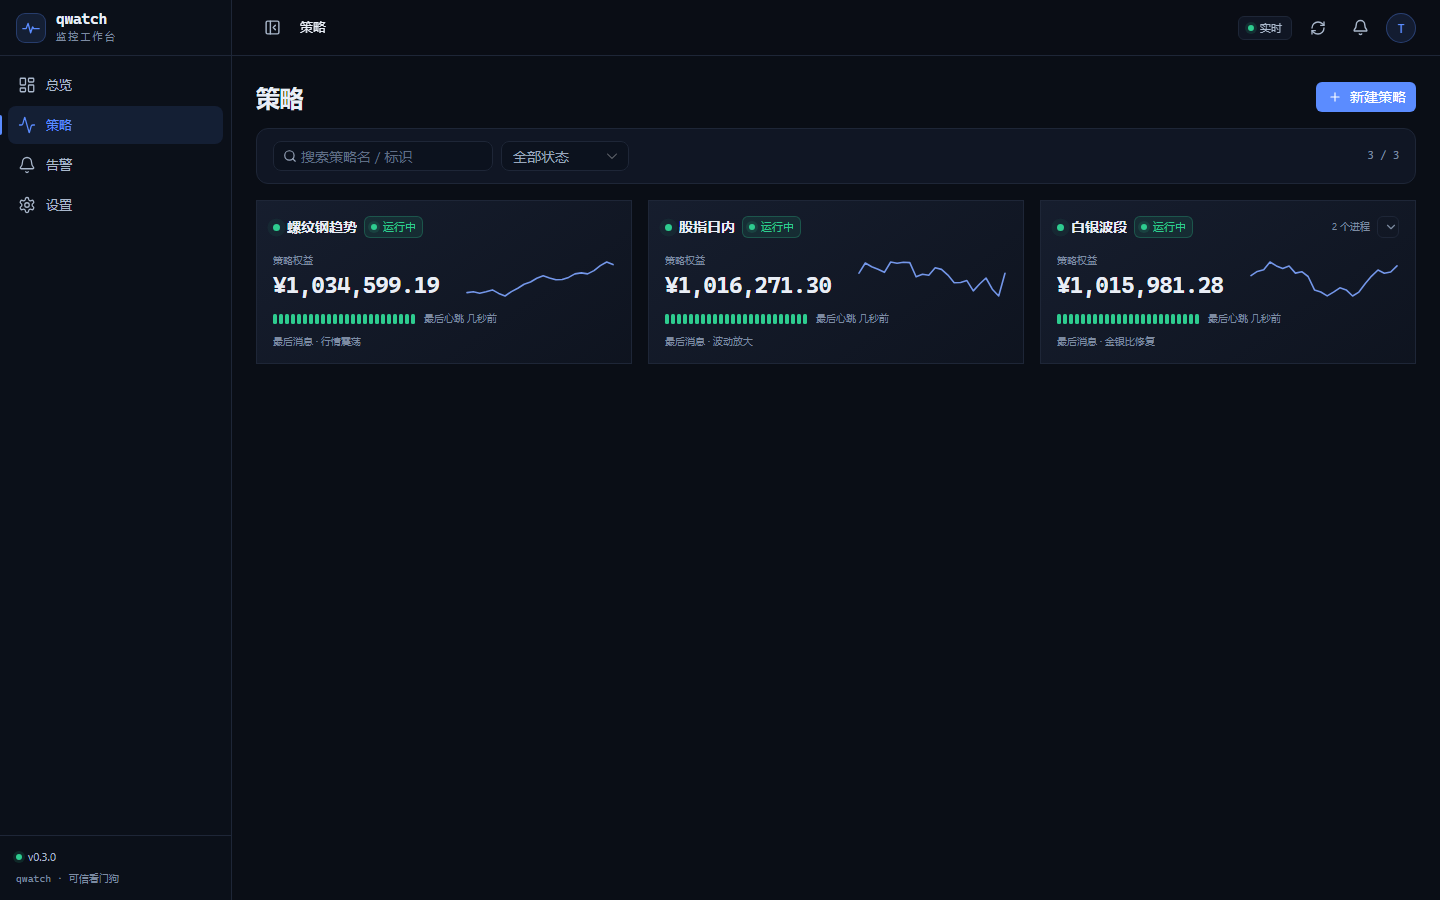
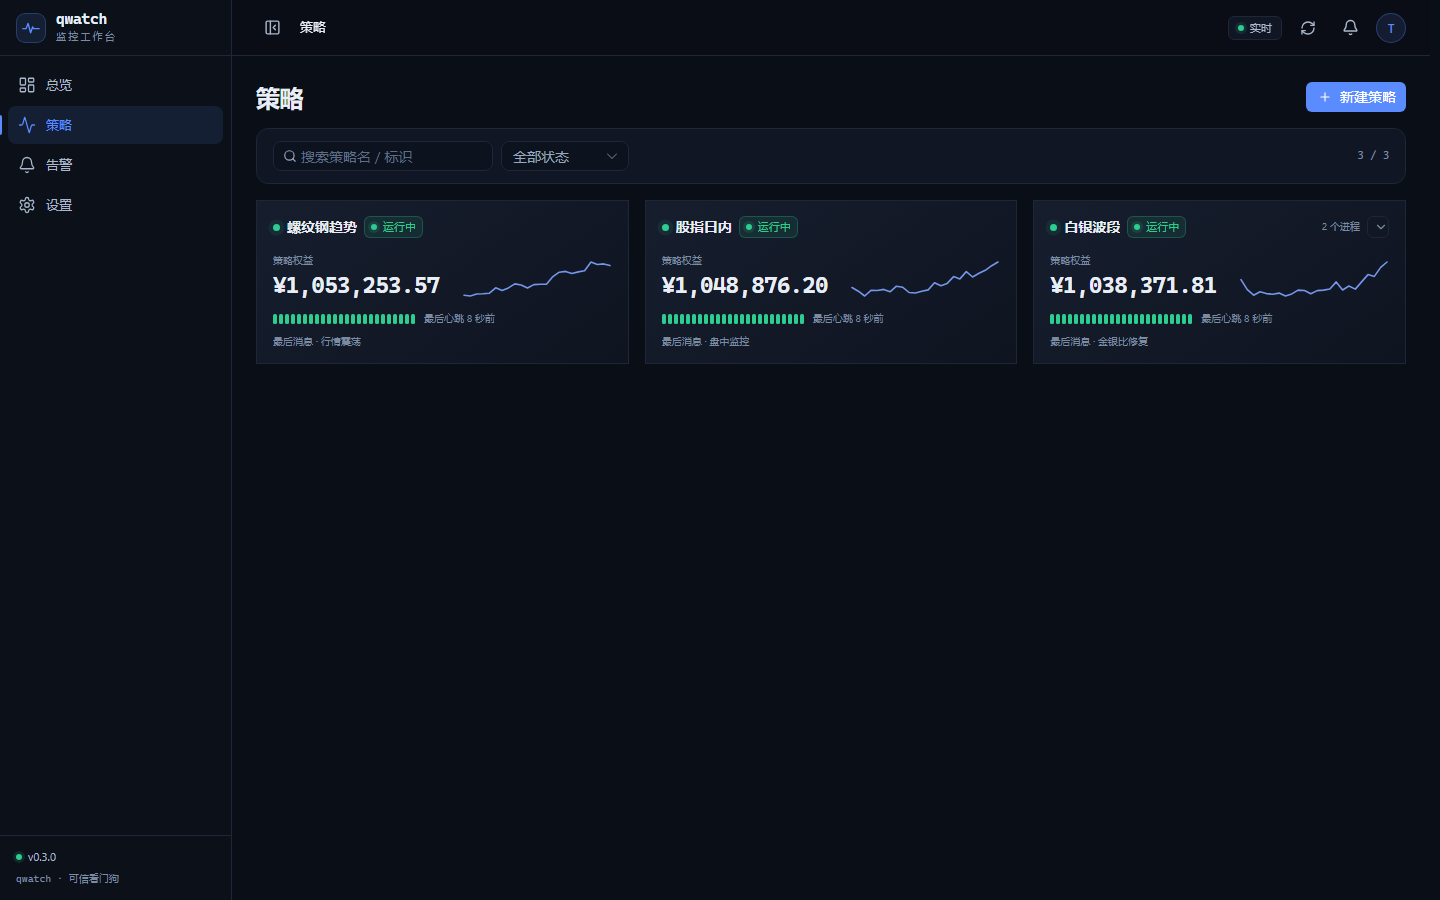
fix: polish dashboard alignment, live timers and card interactions

diff --git a/frontend/src/views/Overview.vue b/frontend/src/views/Overview.vue
@@ -2,7 +2,7 @@
 // Overview.vue — v0.3 总览：总权益/权益曲线 + 策略状态（可展开进程、异常可见）+ 实时动态/告警。
 import { computed, onBeforeUnmount, onMounted, ref, watch } from 'vue';
 import { useRouter } from 'vue-router';
-import { Bell, ChevronDown, ChevronRight, TrendingUp, Wallet, Waves } from 'lucide-vue-next';
+import { Bell, ChevronRight, TrendingUp, Wallet, Waves } from 'lucide-vue-next';
 import { api } from '@/api/client';
 import type { Overview, Runner, RunnerDetail, RunnerEvent } from '@/api/types';
 import { useRealtimeStore } from '@/stores/realtime';
@@ -29,9 +29,6 @@ const selectedStrategy = ref('all');
 const range = ref<'1D' | '1W' | '1M' | '3M' | 'ALL'>('1D');
 const selectedDetail = ref<RunnerDetail | null>(null);
 const selectedLoading = ref(false);
-const expandedId = ref('');
-const expandedDetail = ref<RunnerDetail | null>(null);
-const expandedLoading = ref(false);
 let pollTimer: number | undefined;
 let reloadTimer: number | undefined;
 
@@ -100,10 +97,6 @@ async function load(initial = false): Promise<void> {
       if (!data.value.runners.some((runner) => runner.id === selectedStrategy.value)) selectedStrategy.value = 'all';
       else await loadSelected(selectedStrategy.value);
     }
-    if (expandedId.value) {
-      if (!data.value.runners.some((runner) => runner.id === expandedId.value)) closeExpanded();
-      else await loadExpanded(expandedId.value);
-    }
   } catch (err) {
     error.value = err instanceof Error ? err.message : '总览加载失败';
   } finally {
@@ -120,23 +113,6 @@ async function loadSelected(id: string): Promise<void> {
 function selectStrategy(id: string): void {
   selectedStrategy.value = id;
   void loadSelected(id);
-}
-async function loadExpanded(id: string): Promise<void> {
-  expandedLoading.value = true;
-  try { expandedDetail.value = await api.runner(id); }
-  catch { expandedDetail.value = null; }
-  finally { expandedLoading.value = false; }
-}
-async function toggleRunner(runner: Runner): Promise<void> {
-  if (runner.process_count <= 1) { void router.push('/strategies/' + runner.id); return; }
-  if (expandedId.value === runner.id) { closeExpanded(); return; }
-  expandedId.value = runner.id;
-  expandedDetail.value = null;
-  await loadExpanded(runner.id);
-}
-function closeExpanded(): void {
-  expandedId.value = '';
-  expandedDetail.value = null;
 }
 function openEvent(event: RunnerEvent): void {
   if (event.runner_id) void router.push('/strategies/' + event.runner_id + '?tab=events');
@@ -160,8 +136,18 @@ onBeforeUnmount(() => {
   <div class="page">
     <PageHeader title="总览" />
 
-    <div v-if="loading && !data" class="summary-grid">
-      <div v-for="i in 4" :key="i" class="skel skel-card" style="height: 96px" />
+    <div v-if="loading && !data" class="skeleton-page">
+      <div class="summary-grid">
+        <div v-for="i in 4" :key="i" class="skel skel-card" style="height: 104px" />
+      </div>
+      <div class="overview-main">
+        <div class="skel skel-card" style="height: 390px; border-radius: var(--radius-lg)" />
+        <div class="skel skel-card" style="height: 390px; border-radius: var(--radius-lg)" />
+      </div>
+      <div class="grid grid-2">
+        <div class="skel skel-card" style="height: 260px; border-radius: var(--radius-lg)" />
+        <div class="skel skel-card" style="height: 260px; border-radius: var(--radius-lg)" />
+      </div>
     </div>
     <div v-else-if="error && !data" class="card"><EmptyState title="总览加载失败" :description="error" /></div>
 
@@ -195,50 +181,37 @@ onBeforeUnmount(() => {
 
       <div class="overview-main">
         <SectionCard title="权益曲线">
-          <div class="chart-toolbar">
-            <select :value="selectedStrategy" class="chart-select" aria-label="选择策略" @change="selectStrategy(($event.target as HTMLSelectElement).value)">
-              <option v-for="option in strategyOptions" :key="option.id" :value="option.id">{{ option.name }}</option>
-            </select>
-            <div class="range-tabs">
-              <button v-for="item in ranges" :key="item.key" type="button" :class="{ active: range === item.key }" @click="range = item.key">{{ item.label }}</button>
+          <template #extra>
+            <div class="chart-tools">
+              <select :value="selectedStrategy" class="chart-select" aria-label="选择策略" @change="selectStrategy(($event.target as HTMLSelectElement).value)">
+                <option v-for="option in strategyOptions" :key="option.id" :value="option.id">{{ option.name }}</option>
+              </select>
+              <div class="range-tabs">
+                <button v-for="item in ranges" :key="item.key" type="button" :class="{ active: range === item.key }" @click="range = item.key">{{ item.label }}</button>
+              </div>
             </div>
-          </div>
+          </template>
           <div class="chart-wrap" :class="{ dimmed: selectedLoading }"><NavChart :data="equityCurve" :height="292" /></div>
         </SectionCard>
 
         <SectionCard title="策略状态">
           <template #extra><router-link to="/strategies" class="link-more">全部策略 <ChevronRight :size="13" /></router-link></template>
           <div v-if="data.runners.length" class="status-list">
-            <div v-for="runner in data.runners" :key="runner.id" class="status-block" :class="{ expanded: expandedId === runner.id }">
-              <div class="status-row" role="button" tabindex="0" @click="toggleRunner(runner)" @keydown.enter="toggleRunner(runner)">
-                <div class="status-row-top">
-                  <span class="status-name"><StatusDot :status="runner.status" :size="7" /><span class="truncate">{{ runner.name }}</span><StatusTag :status="runner.status" compact /></span>
-                  <span class="status-right">
-                    <span v-if="issueCount(runner) && runner.status !== 'paused'" class="issue">{{ issueCount(runner) }} 个进程异常</span>
-                    <span v-else-if="runner.process_count > 1" class="proc-count">{{ runner.process_count }} 个进程</span>
-                    <ChevronDown v-if="runner.process_count > 1" :size="13" class="chevron" :class="{ open: expandedId === runner.id }" />
-                  </span>
-                </div>
-                <div class="status-row-mid">
-                  <HeartbeatGrid :status="runner.status" :last-seen="runner.last_seen" />
-                  <span class="equity mono">{{ runner.equity ? '¥' + fmtNumber(runner.equity, 2) : '—' }}</span>
-                  <span class="last-seen">{{ runner.last_seen ? fromNow(runner.last_seen) : '从未上报' }}</span>
-                </div>
-                <p class="status-msg truncate">{{ runner.last_msg || runner.description || '暂无消息' }}</p>
+            <router-link v-for="runner in data.runners" :key="runner.id" :to="'/strategies/' + runner.id" class="status-row">
+              <div class="status-row-top">
+                <span class="status-name"><StatusDot :status="runner.status" :size="7" /><span class="truncate">{{ runner.name }}</span><StatusTag :status="runner.status" compact /></span>
+                <span class="status-right">
+                  <span v-if="issueCount(runner) && runner.status !== 'paused'" class="issue">{{ issueCount(runner) }} 个进程异常</span>
+                  <span v-else-if="runner.process_count > 1" class="proc-count">{{ runner.process_count }} 个进程</span>
+                </span>
               </div>
-              <div v-if="expandedId === runner.id" class="process-pop">
-                <div v-if="expandedLoading" class="pop-loading">加载进程…</div>
-                <template v-else-if="expandedDetail">
-                  <div v-for="process in expandedDetail.processes" :key="process.name" class="process-line">
-                    <span class="process-name mono">{{ process.name }}</span>
-                    <StatusTag :status="process.retired ? 'retired' : process.status" compact />
-                    <HeartbeatGrid :status="process.status" :retired="process.retired" :last-seen="process.last_seen" />
-                    <span class="process-time">{{ process.last_seen ? fromNow(process.last_seen) : '从未上报' }}</span>
-                  </div>
-                  <router-link :to="'/strategies/' + runner.id" class="pop-detail">查看策略详情 <ChevronRight :size="12" /></router-link>
-                </template>
+              <div class="status-row-mid">
+                <HeartbeatGrid :status="runner.status" :last-seen="runner.last_seen" />
+                <span class="row-equity mono">{{ runner.equity ? '¥' + fmtNumber(runner.equity, 2) : '—' }}</span>
+                <span class="last-seen">{{ runner.last_seen ? fromNow(runner.last_seen) : '从未上报' }}</span>
               </div>
-            </div>
+              <p class="status-msg truncate">{{ runner.last_msg || runner.description || '暂无消息' }}</p>
+            </router-link>
           </div>
           <EmptyState v-else compact title="还没有策略组" description="前往「策略」页创建策略并生成接入令牌。" />
         </SectionCard>
@@ -267,19 +240,19 @@ onBeforeUnmount(() => {
 
 <style scoped>
 .summary-grid { display: grid; grid-template-columns: repeat(4, minmax(0, 1fr)); gap: var(--gap); }
-.ov-kpi { display: flex; flex-direction: column; min-height: 104px; padding: 14px 16px; border: 1px solid var(--border); border-radius: var(--radius-lg); background: linear-gradient(145deg, rgba(29, 38, 58, 0.7), rgba(17, 23, 36, 0.7)); color: inherit; }
-.ov-kpi-top { display: flex; align-items: center; justify-content: space-between; color: var(--text-3); font-size: 11px; }
-.ov-kpi-value { margin-top: 10px; font-family: var(--font-mono); font-size: 26px; font-weight: 600; letter-spacing: -0.04em; color: var(--text); white-space: nowrap; }
+.ov-kpi { display: flex; flex-direction: column; align-items: flex-start; min-height: 104px; padding: 14px 16px; border: 1px solid var(--border); border-radius: var(--radius-lg); background: linear-gradient(145deg, rgba(29, 38, 58, 0.7), rgba(17, 23, 36, 0.7)); color: inherit; }
+.ov-kpi-top { width: 100%; display: flex; align-items: center; justify-content: space-between; color: #ffffff; font-size: 11px; }
+.ov-kpi-value { width: 100%; margin-top: 10px; font-family: var(--font-mono); font-size: 26px; font-weight: 600; letter-spacing: -0.04em; color: #ffffff; text-align: left; white-space: nowrap; }
 .ov-kpi-value.equity { font-size: 23px; }
 .ov-kpi-value.up { color: var(--up); }
 .ov-kpi-value.down { color: var(--down); }
 .ov-kpi-value.danger, .danger { color: var(--danger); }
 .ov-kpi-value .dim { color: var(--text-3); font-size: 16px; font-weight: 400; }
 .ov-kpi-value .unit { color: var(--text-3); font-size: 13px; font-weight: 400; }
-.ov-kpi-foot { margin-top: auto; padding-top: 6px; color: var(--text-3); font-size: 10px; }
+.ov-kpi-foot { margin-top: auto; padding-top: 6px; color: #cbd5e5; font-size: 10px; }
 .ov-kpi.link:hover { border-color: var(--border-strong); }
 .overview-main { display: grid; grid-template-columns: minmax(0, 1.7fr) minmax(320px, 1fr); gap: var(--gap); align-items: start; }
-.chart-toolbar { display: flex; align-items: center; justify-content: space-between; gap: 10px; margin-bottom: 8px; }
+.chart-tools { display: flex; align-items: center; gap: 8px; }
 .chart-select { height: 27px; min-width: 132px; padding: 0 24px 0 9px; border: 1px solid var(--border); border-radius: 6px; background: var(--bg); color: var(--text-2); font-size: 11px; outline: none; cursor: pointer; }
 .range-tabs { display: inline-flex; padding: 2px; border: 1px solid var(--border); border-radius: 6px; background: var(--bg); }
 .range-tabs button { height: 23px; padding: 0 8px; border: 0; border-radius: 4px; background: transparent; color: var(--text-3); font-size: 10px; cursor: pointer; }
@@ -287,29 +260,26 @@ onBeforeUnmount(() => {
 .chart-wrap { transition: opacity 160ms ease; }
 .chart-wrap.dimmed { opacity: 0.55; }
 .status-list { display: flex; flex-direction: column; gap: 8px; }
-.status-block { border: 1px solid var(--border); border-radius: 9px; background: rgba(21, 28, 44, 0.45); overflow: hidden; }
-.status-block.expanded { border-color: rgba(91, 140, 255, 0.34); }
-.status-row { padding: 11px 12px; cursor: pointer; transition: background-color 150ms ease; }
-.status-row:hover { background: rgba(91, 140, 255, 0.055); }
+.status-row {
+  display: block;
+  padding: 11px 12px;
+  border: 1px solid var(--border);
+  border-radius: 9px;
+  background: rgba(21, 28, 44, 0.45);
+  color: inherit;
+  transition: border-color 150ms ease, background-color 150ms ease;
+}
+.status-row:hover { border-color: var(--border-strong); background: rgba(91, 140, 255, 0.055); }
 .status-row-top, .status-row-mid { display: flex; align-items: center; gap: 8px; }
 .status-row-top { justify-content: space-between; }
-.status-name { display: inline-flex; align-items: center; gap: 7px; min-width: 0; font-size: 13px; font-weight: 600; }
+.status-name { display: inline-flex; align-items: center; gap: 7px; min-width: 0; font-size: 13px; font-weight: 600; color: #ffffff; }
 .status-right { display: inline-flex; align-items: center; gap: 7px; }
 .issue { color: #f5b64b; font-size: 10px; }
 .proc-count { color: var(--text-3); font-size: 10px; }
-.chevron { color: var(--text-3); transition: transform 160ms ease; }
-.chevron.open { transform: rotate(180deg); }
 .status-row-mid { margin-top: 9px; }
-.equity { margin-left: auto; font-size: 12px; color: var(--text-2); }
+.row-equity { margin-left: auto; font-size: 12px; color: var(--text-2); }
 .last-seen { font-size: 10px; color: var(--text-3); }
 .status-msg { margin-top: 6px; font-size: 10px; color: var(--text-3); }
-.process-pop { padding: 0 12px 11px; border-top: 1px solid var(--border); }
-.pop-loading { padding: 10px 0; color: var(--text-3); font-size: 10px; }
-.process-line { display: flex; align-items: center; gap: 9px; padding: 8px 0; border-bottom: 1px solid var(--border); font-size: 11px; }
-.process-line:last-of-type { border-bottom: 0; }
-.process-name { width: 52px; color: var(--text); }
-.process-time { margin-left: auto; color: var(--text-3); font-size: 10px; }
-.pop-detail { display: inline-flex; align-items: center; gap: 2px; margin-top: 7px; color: var(--primary); font-size: 10px; }
 .live-hint { display: inline-flex; align-items: center; gap: 5px; color: var(--text-3); font-size: 10px; }
 .live-hint.live { color: var(--down); }
 .alert-feed { display: flex; flex-direction: column; }
@@ -328,8 +298,9 @@ onBeforeUnmount(() => {
   .ov-kpi { min-height: 92px; padding: 11px 12px; }
   .ov-kpi-value { font-size: 20px; }
   .ov-kpi-value.equity { font-size: 18px; }
-  .chart-toolbar { align-items: flex-start; flex-direction: column; }
-  .range-tabs { align-self: flex-end; }
+  .chart-tools { align-items: flex-start; flex-direction: column; }
+  .chart-select { width: 100%; }
+  .range-tabs { align-self: stretch; justify-content: space-between; }
   .last-seen { display: none; }
 }
 </style>

diff --git a/frontend/src/components/GroupCard.vue b/frontend/src/components/GroupCard.vue
@@ -1,6 +1,7 @@
 <script setup lang="ts">
 // GroupCard.vue — 策略卡片：权益/曲线分层展示，进程健康一眼可见。
 import { computed, ref } from 'vue';
+import { useRouter } from 'vue-router';
 import { AlertTriangle, ChevronDown, ChevronUp } from 'lucide-vue-next';
 import { api } from '@/api/client';
 import type { ProcessInfo, Runner } from '@/api/types';
@@ -12,6 +13,7 @@ import StatusDot from './StatusDot.vue';
 import StatusTag from './StatusTag.vue';
 
 const props = withDefaults(defineProps<{ runner: Runner; expandable?: boolean }>(), { expandable: true });
+const router = useRouter();
 const expanded = ref(false);
 const processes = ref<ProcessInfo[]>([]);
 const loaded = ref(false);
@@ -37,15 +39,18 @@ async function toggle(): Promise<void> {
   expanded.value = !expanded.value;
   if (expanded.value) await loadProcesses();
 }
+function goDetail(): void {
+  void router.push('/strategies/' + props.runner.id);
+}
 defineExpose({ reload: () => { loaded.value = false; if (expanded.value) { void loadProcesses(); } } });
 </script>
 
 <template>
-  <article class="group-card">
+  <article class="group-card" role="link" tabindex="0" @click="goDetail" @keydown.enter="goDetail">
     <header class="card-head">
       <div class="identity">
         <StatusDot :status="runner.status" :size="7" :pulse="runner.status === 'running'" />
-        <router-link :to="'/strategies/' + runner.id" class="name truncate" :title="runner.name">{{ runner.name }}</router-link>
+        <router-link :to="'/strategies/' + runner.id" class="name truncate" :title="runner.name" @click.stop>{{ runner.name }}</router-link>
         <StatusTag :status="runner.status" compact />
       </div>
       <div class="head-right">
@@ -57,7 +62,7 @@ defineExpose({ reload: () => { loaded.value = false; if (expanded.value) { void 
           class="expand"
           :aria-expanded="expanded"
           aria-label="展开进程"
-          @click="toggle"
+          @click.stop="toggle"
         >
           <ChevronUp v-if="expanded" :size="14" />
           <ChevronDown v-else :size="14" />
@@ -82,7 +87,7 @@ defineExpose({ reload: () => { loaded.value = false; if (expanded.value) { void 
 
     <p class="desc truncate">{{ runner.last_msg ? '最后消息 · ' + runner.last_msg : runner.description || '暂无消息' }}</p>
 
-    <div v-if="expanded" class="sub">
+    <div v-if="expanded" class="sub" @click.stop>
       <div v-if="loading" class="sub-loading">加载进程…</div>
       <div v-else-if="error" class="error-bar"><span class="dot" />{{ error }}</div>
       <ProcessTable v-else :processes="processes" empty-text="还没有进程上报。" />
@@ -92,6 +97,7 @@ defineExpose({ reload: () => { loaded.value = false; if (expanded.value) { void 
 
 <style scoped>
 .group-card {
+  cursor: pointer;
   display: flex;
   flex-direction: column;
   padding: 15px 16px 13px;

diff --git a/frontend/src/utils/format.ts b/frontend/src/utils/format.ts
@@ -1,14 +1,16 @@
 // utils/format.ts — 展示格式化：时间（Asia/Shanghai）、相对时间、数值；v0.2 不再有金额/收益格式。
+import { ref } from 'vue';
 import dayjs from 'dayjs';
 import utc from 'dayjs/plugin/utc';
 import timezone from 'dayjs/plugin/timezone';
-import relativeTime from 'dayjs/plugin/relativeTime';
 import 'dayjs/locale/zh-cn';
 
 dayjs.extend(utc);
 dayjs.extend(timezone);
-dayjs.extend(relativeTime);
 dayjs.locale('zh-cn');
+
+/** 全局秒级时钟：模板里调用 fromNow 会自动每秒刷新。 */
+export const nowTick = ref(Date.now());
 
 export const TZ = 'Asia/Shanghai';
 
@@ -34,9 +36,17 @@ export function fmtTime(ts?: string | null): string {
   return ts ? dayjs(ts).tz(TZ).format('HH:mm:ss') : '—';
 }
 
-/** 相对时间：几秒前 / 3 分钟前 */
+/** 相对时间：精确到秒的实时刷新 */
 export function fromNow(ts?: string | null): string {
-  return ts ? dayjs(ts).fromNow() : '—';
+  if (!ts) return '—';
+  const diff = Math.max(0, Math.floor((nowTick.value - Date.parse(ts)) / 1000));
+  if (diff < 1) return '刚刚';
+  if (diff < 60) return diff + ' 秒前';
+  const minutes = Math.floor(diff / 60);
+  if (minutes < 60) return minutes + ' 分钟前';
+  const hours = Math.floor(minutes / 60);
+  if (hours < 24) return hours + ' 小时前';
+  return Math.floor(hours / 24) + ' 天前';
 }
 
 /** 时长：90s / 3m20s / 2h */

diff --git a/frontend/src/layouts/AppShell.vue b/frontend/src/layouts/AppShell.vue
@@ -9,6 +9,7 @@ import {
   RefreshCw, Settings as SettingsIcon,
 } from 'lucide-vue-next';
 import { api, apiMeta } from '@/api/client';
+import { nowTick } from '@/utils/format';
 import { streamMeta } from '@/api/stream';
 import { useAuthStore } from '@/stores/auth';
 import { useRealtimeStore } from '@/stores/realtime';
@@ -36,6 +37,7 @@ const isMobile = ref(false);
 const drawerOpen = ref(false);
 const alertCount = ref(0);
 let alertTimer: number | undefined;
+let clockTimer: number | undefined;
 let mql: MediaQueryList | null = null;
 
 const collapsed = computed(() => !isMobile.value && settings.collapsed);
@@ -114,6 +116,7 @@ onMounted(() => {
   window.addEventListener('keydown', onKeydown);
   window.addEventListener('qwatch:alerts-changed', onAlertsChanged);
   alertTimer = window.setInterval(loadAlertCount, 60000);
+  clockTimer = window.setInterval(() => { nowTick.value = Date.now(); }, 1000);
   realtime.start();
   if (!auth.user) void auth.fetchMe();
   void loadAlertCount();
@@ -124,6 +127,7 @@ onBeforeUnmount(() => {
   window.removeEventListener('keydown', onKeydown);
   window.removeEventListener('qwatch:alerts-changed', onAlertsChanged);
   if (alertTimer) window.clearInterval(alertTimer);
+  if (clockTimer) window.clearInterval(clockTimer);
   realtime.stop();
 });
 </script>

diff --git a/frontend/src/styles/global.css b/frontend/src/styles/global.css
@@ -9,6 +9,9 @@ body,
 #app {
   height: 100%;
 }
+html {
+  scrollbar-gutter: stable;
+}
 body {
   margin: 0;
   background: var(--bg);
@@ -118,7 +121,6 @@ textarea {
   gap: var(--gap);
   max-width: var(--page-max);
   margin: 0 auto;
-  animation: page-in 160ms ease-out;
 }
 @keyframes page-in {
   from {
